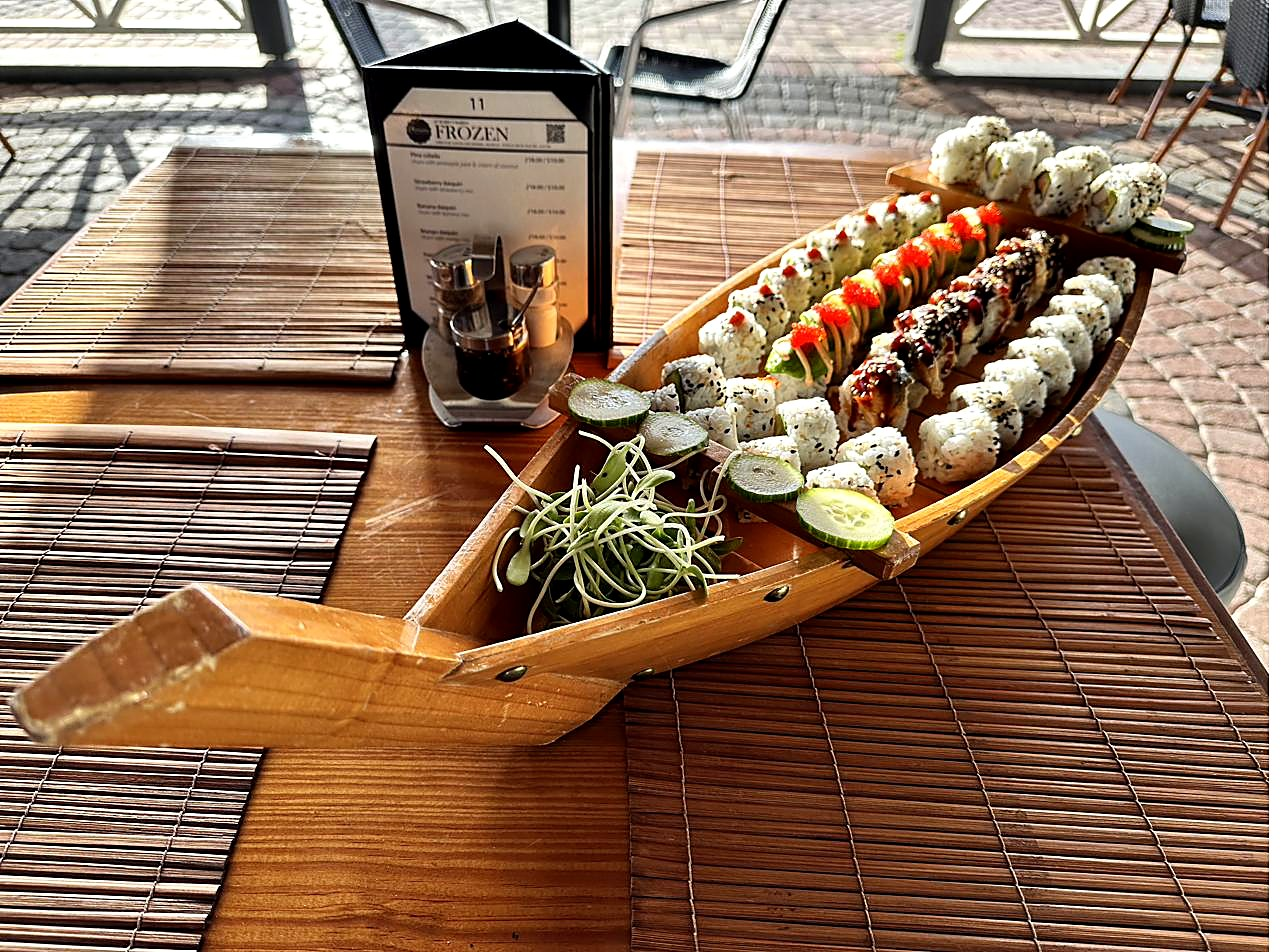
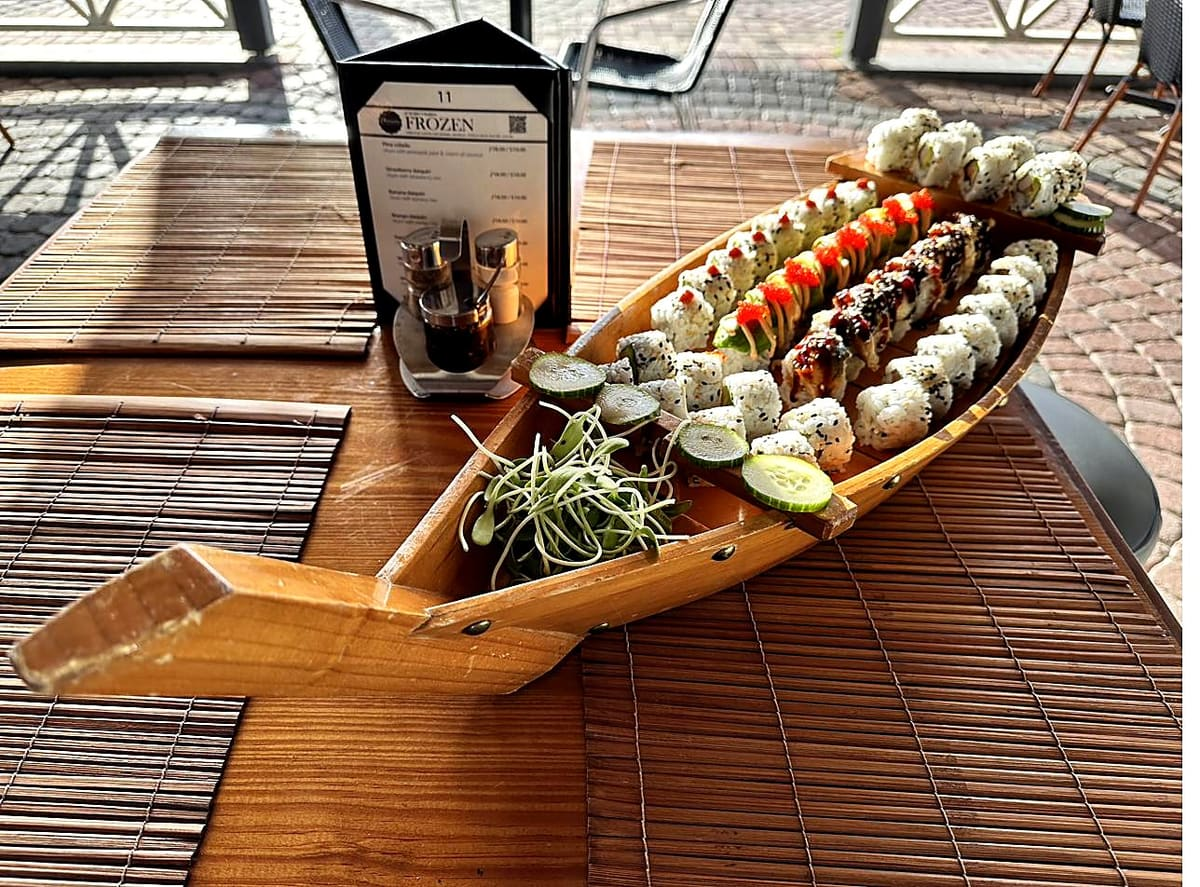
Halve the weight of the site's photographs (#19)
Chin: the site loads too slowly to be usable. Measured first, on the live site,
cold-fetching every image it references: 3,674 KB of referenced photographs,
1,136 KB of it before a visitor scrolls at all. The photographs were saved at
near-maximum JPEG quality at 1,288-1,600px wide and displayed at 360-600 CSS px.

Referenced photographs: 3,674 KB -> 1,894 KB. 48% smaller, 1.78 MB saved.

Capped at 1,200px (every one displays at =< 600 CSS px, so 1,200 still covers a
2x screen), mozjpeg quality 78, progressive, metadata stripped.

NOT ONE LINE OF HTML OR CSS CHANGED. Same filenames, same aspect ratios, same
markup, so there is no layout to re-verify. BUILD_RULES rule 8 says visual
changes stay MIXED until Chin eyeballs the live site; a pass that cannot change
layout cannot break it. Two originals were compared side by side at display size
and are indistinguishable - that is not a claim of full visual verification.

macOS sips was the first attempt and it made files BIGGER: dish-dragon-roll.jpg
went 351 KB -> 440 KB resampling from 1288px to 1200px. Measured, not assumed.
The pass uses libvips/mozjpeg, and refuses to write any file that comes out
larger than it went in.

Not fixed, reported in docs/image-weight-2026-08-15.md: gallery-seared-tuna.jpg
is not a valid image at all (and is referenced by nothing); six unreferenced
images hold 1,331 KB on disk; the logo is served at 3.2x its display size.

diff --git a/docs/image-weight-2026-08-15.md b/docs/image-weight-2026-08-15.md
@@ -1,0 +1,90 @@
+# Photograph weight — measured and halved, 2026-08-15
+
+Chin: *"compact the pictures of template number one and make sure it can run properly,
+because if it doesn't, it will not be used."*
+
+## What was measured first
+
+Live, on `aziana.sx`, cold-fetching every image the page references:
+
+| | |
+|---|---|
+| Images referenced by the site | 22 JPEG, 3 WebP |
+| `public/images` on disk | **5,310 KB** |
+| Referenced photographs | **3,674 KB** |
+| Loaded before any scrolling | 4 files, **1,136 KB** |
+| Largest single file | `gallery-salt-pepper-shrimp.jpg`, 399 KB |
+| Oversupplied for their display size | logo 3.2×, gallery images 2.2× |
+
+The photographs were saved at near-maximum JPEG quality at 1,288–1,600 px wide, and displayed
+at 360–600 CSS px.
+
+## What changed
+
+**Referenced photographs: 3,674 KB → 1,894 KB. 48% smaller, 1.78 MB saved.**
+
+| File | Before | After | Saved |
+|---|---|---|---|
+| gallery-salt-pepper-shrimp.jpg | 399K | 111K | 72% |
+| dish-snack-platter.jpg | 385K | 110K | 71% |
+| gallery-babi-pangang.jpg | 376K | 106K | 72% |
+| dish-dragon-roll.jpg | 343K | 224K | 35% |
+| visit-aerial.jpg | 302K | 193K | 36% |
+| setting.jpg | 297K | 187K | 37% |
+| dish-sashimi-combo.jpg | 257K | 86K | 67% |
+| bar.jpg | 206K | 137K | 34% |
+| dish-seared-tuna.jpg | 201K | 122K | 39% |
+| events.jpg | 171K | 112K | 35% |
+| hero-mobile.jpg | 155K | 109K | 30% |
+| hero.jpg | 152K | 96K | 37% |
+| dish-grilled-salmon.jpg | 132K | 78K | 41% |
+| events-square.jpg | 121K | 93K | 23% |
+| gallery-nigiri-selection.jpg | 97K | 55K | 43% |
+| story.jpg | 80K | 75K | 7% |
+
+Capped at 1,200 px wide (every one of these displays at ≤ 600 CSS px, so 1,200 still covers a
+2× screen), re-encoded with mozjpeg at quality 78, progressive, metadata stripped.
+
+## Why nothing else changed
+
+**Not one line of HTML or CSS was touched.** Same filenames, same aspect ratios, same markup —
+so there is no layout to re-verify, and the only thing that moved is the number of bytes on the
+wire. `BUILD_RULES` rule 8 says visual changes stay MIXED until Chin eyeballs the live site; a
+pass that *cannot* change layout is a pass that cannot break it.
+
+Two originals were compared against their replacements side by side at display size and are
+indistinguishable — but per rule 8 that is **not** a claim of full visual verification. Chin
+should look at the live site.
+
+## Two things worth knowing
+
+**`sips` was the first attempt and it made files bigger.** Resampling `dish-dragon-roll.jpg`
+from 1,288 px to 1,200 px took it from 351 KB to **440 KB**, and a quality pass afterwards would
+not bring it back. macOS's JPEG encoder is not fit for this. Measured, not assumed — the work
+switched to libvips/mozjpeg. Anyone repeating this pass should not reach for `sips`.
+
+**A guard is built into the script:** a file that comes out of the encoder *larger* than it went
+in is left alone. Keeping the original is strictly better than "we optimised it".
+
+## Found along the way, not fixed
+
+- **`gallery-seared-tuna.jpg` is not a valid image.** Every decoder rejects it — `sips` reports
+  0×0 and libvips reports an unsupported format. It is also referenced by nothing, so no visitor
+  has ever been affected. **Left in place**: `BUILD_RULES` rule 4 is explicit that a file is not
+  stray just because a scan says so, and deleting it is not what this pass was scoped to do.
+- **Six unreferenced images**, 1,331 KB on disk: `cuisine-poke.jpg`, `cuisine-steak.jpg`,
+  `cuisine-sushi.jpg`, `gallery-salmon-poke.jpg`, `gallery-seared-tuna.jpg`,
+  `gallery-snack-platter.jpg`. They cost a visitor nothing because nothing downloads them, so
+  they were neither re-encoded nor deleted. Proven unreferenced by scanning every `.html`,
+  `.css`, `.json`, `.js`, `.txt` and `.xml` under `public/` — which satisfies rule 4's evidence
+  bar, but the decision to remove them is Chin's.
+- **The logo is served at 1,022×291 and displayed at 162×46** — about 3.2× more pixels than any
+  screen uses. It is a PNG, so it was outside this JPEG pass. Worth its own small change.
+
+## The bigger remaining win, which is not a code change
+
+WebP would roughly halve these again, but delivering it properly means `<picture>` elements
+across twelve HTML files — real layout risk for a site whose rules say visual changes need
+Chin's eyes. **Cloudflare Polish** (Speed → Optimization → Image Optimization) converts to WebP
+automatically at the edge with no markup change at all. That is a dashboard setting, not a
+repo change, and it is the cheapest remaining improvement by a wide margin.
